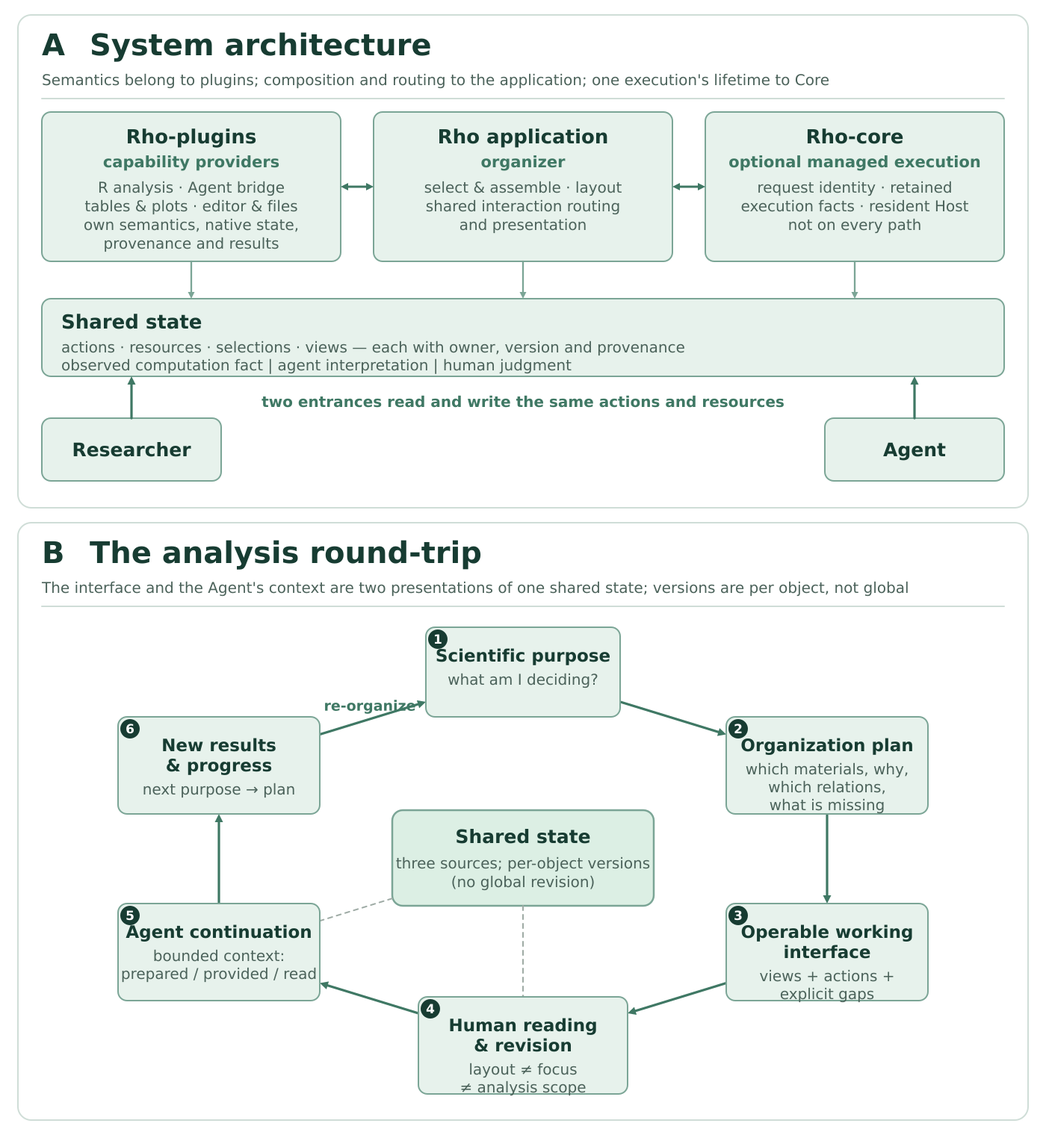
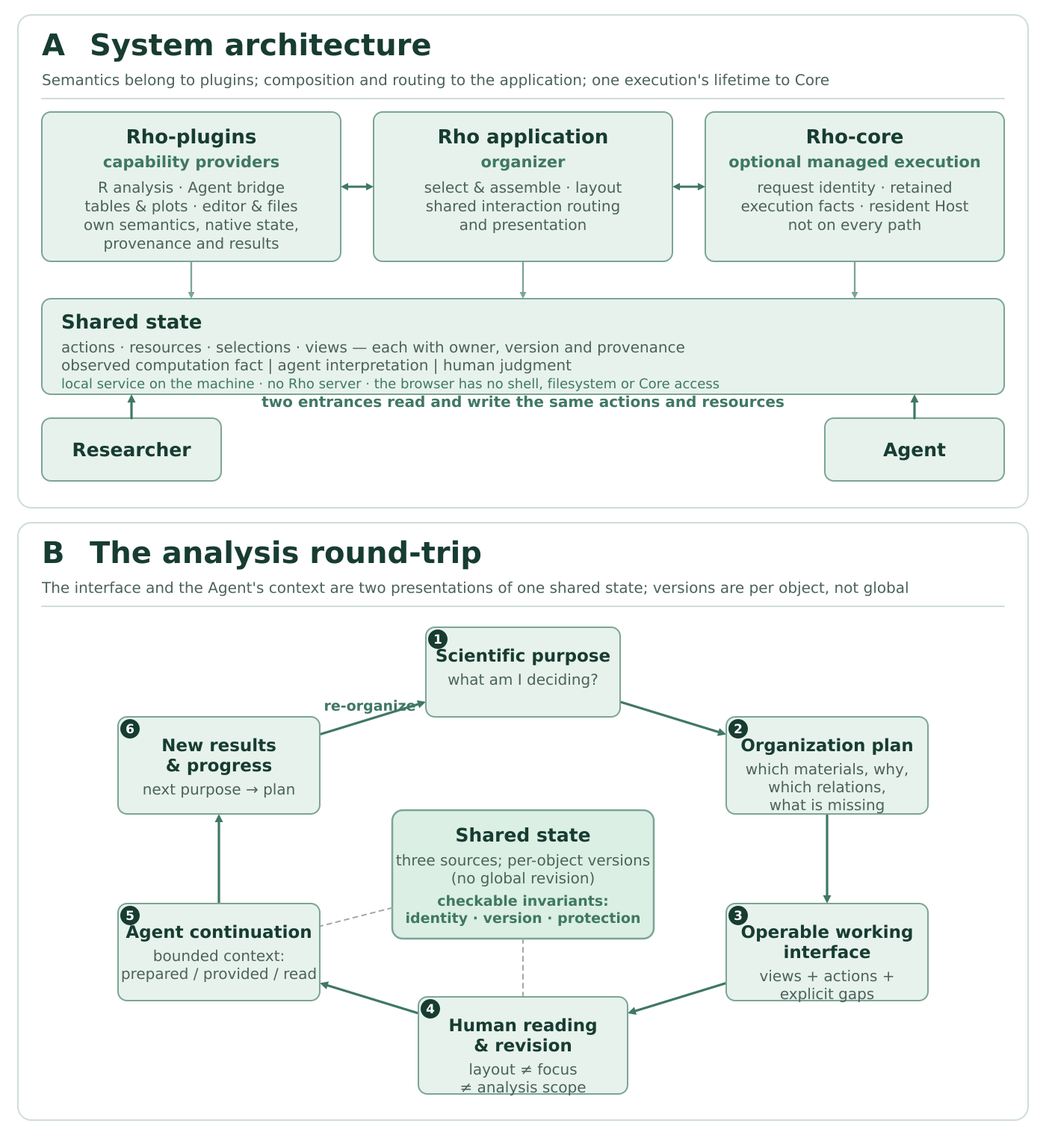
Integrate the deployed documentation into the argument
- Add a claim -> protocol invariant -> evidence table (Section 3.7) so each
  load-bearing claim is paired with the mechanism that makes it checkable
- Add local-first deployment facts and a new execution-identity subsection
  (unknown outcomes are queried, never replayed)
- Rework the collaboration section around the external-session observation
  boundary, and record the roadmap's own presentation defect for the base-R run
- Fold the five-operation and capability tables into prose; regenerate the
  architecture figure with the invariants and the local-service note
- Record the corpus selection and the run's operational facts in case selection

Changed region(s): [[0.3686, 0.7093, 0.645, 0.8327], [0.2764, 0.3084, 0.6757, 0.3392], [0.0614, 0.3084, 0.2457, 0.3701]]

diff --git a/drafts/arxiv/main.tex b/drafts/arxiv/main.tex
@@ -39,7 +39,7 @@ Two default arrangements do not answer this directly. One gives the interface to
 
 Rho takes a third position: it makes the current scientific purpose the organizing principle, forms a working interface from it, and treats the organization itself as a fact shared by the person and the agent. The system obtains or selects the materials a judgment needs, states what each one contributes, composes the applicable views and operations, and points out what is still missing; the researcher reads, compares and revises within it, the agent continues from the same representation with its objects, scope and actual compute conditions, and new results return to the corresponding judgment. We use \emph{discovering questions} broadly: a question may be supplied by the researcher, emerge from a discrepancy, or follow from an incomplete result. \emph{Testing explanations} means making an explanation answerable to particular results and analysis choices; it does not mean that the interface can validate a biological mechanism by itself.
 
-The proposed contribution is therefore a method, not a particular screen or a model capability: given the current scientific purpose and the capabilities actually connected, select or obtain materials from an ongoing analysis, organize their relations, and compose operable views, such that this organization is simultaneously the researcher's interface for understanding the analysis and the agent's shared context for continuing it, and is revised as human judgment and new results arrive. The paper makes three contributions.
+The proposed contribution is therefore a method, not a particular screen or a model capability: given the current scientific purpose and the capabilities actually connected, select or obtain materials from an ongoing analysis, organize their relations, and compose operable views, such that this organization is simultaneously the researcher's interface for understanding the analysis and the agent's shared context for continuing it, and is revised as human judgment and new results arrive. The claim is not that organization is a good idea but that its distinctions can be made checkable: the paper pairs each load-bearing claim with the protocol invariant that enforces it (Section~\ref{checkable}). The paper makes three contributions.
 
 \begin{enumerate}
   \item \textbf{A method object.} We express ``purpose $\rightarrow$ organization plan $\rightarrow$ operable interface $\rightarrow$ sourced shared state $\rightarrow$ agent continuation'' as a set of checkable objects and operations, in which every step states its basis, gaps and version. Five operations form one round-trip; three kinds of change (layout, focus and analysis scope) must remain distinguishable; the shared state separates three sources (observed computation fact, agent interpretation, human judgment) and versions each object separately. A capability provider supplies information, compute and views; the organizer decides how they are composed.
@@ -130,66 +130,70 @@ The content of the shared state is distinguished by source: the computation fact
 
 \subsection{Five operations form a round-trip}\label{five-ops}
 
-\begin{table}[!htbp]
-\centering
-\small
-\caption{The five operations of one round-trip. They are not a mandatory pipeline but recognizable links: a round-trip may contain only reading and confirmation.}
-\label{tab:ops}
-\begin{tabular}{@{}>{\raggedright\arraybackslash}p{0.20\linewidth} >{\raggedright\arraybackslash}p{0.36\linewidth} >{\raggedright\arraybackslash}p{0.38\linewidth}@{}}
-\hline
-Operation & Input & Change produced \\
-\hline
-Organize by purpose & Current purpose, available materials and capabilities, focus scope & Selection and acquisition, role and relation statements, operable layout and gaps \\
-Read and explore & Organized materials, comparison relations, explicit versions & Expand, locate, compare; keep layout, focus and analysis-scope changes distinct \\
-Revise purpose or analysis & The selected objects, the change to purpose or judgment, and its scope & Reselect materials or update interpretation; retain the original run facts and reading entry \\
-Continue from shared state & Current purpose, material relations, effective decisions, compute conditions, open items, references & A checkable agent-context supply, recording the actual access state \\
-Reorganize as work advances & New results, run changes and their relation to the current purpose & Add content, adjust emphasis, and state the change relative to what was read \\
-\hline
-\end{tabular}
-\end{table}
+One round-trip has five recognizable operations, not a mandatory pipeline. \emph{Organize by purpose} selects or obtains the materials for the current judgment, states their roles and the gaps, and forms an operable layout. \emph{Read and explore} expands, locates and compares them while keeping layout, focus and analysis-scope changes distinct. \emph{Revise the purpose or the analysis} reselects materials or updates an interpretation and retains the original run facts and reading entry. \emph{Continue from the shared state} supplies a checkable agent context and records the actual access state. \emph{Reorganize as work advances} adds new results and states the change relative to what was read.
 
 Revision happens only when the person explicitly changes an analysis choice or an interpretation state; asking ``why'' produces only an attributed explanation. Reading, asking, adopting and revising are not merged into automatic consent.
 
 \subsection{Capability providers and the organizer}\label{capability}
 
-Plugins let the system adapt to different kinds of information, compute and environment without fixing one analysis stack at the base of the application. We distinguish the \emph{capability provider} from the \emph{organizer} of the working interface (Table~\ref{tab:capability}).
+Plugins let the system adapt to different kinds of information, compute and environment without fixing one analysis stack at the base of the application. We distinguish the \emph{capability provider} from the \emph{organizer} of the working interface. A provider supplies a reading or compute entry, the actual format, scope, version and source it works with, and the views and operations that act on a declared object and scope; the organizer decides how they are composed. Three constraints follow. First, access conditions enter the shared state: which input is currently referenced, which capabilities are available, where computation runs, and which facts have not been obtained; otherwise ``the interface looks complete'' hides the actual gap. Second, a capability need not have a UI, and the catalog keeps five states apart---package presence, project enablement, dependency readiness, method authorization and UI renderability---so a missing view does not disable reading a table or editing a document. Third, a specific dataset, disease comparison, statistical design or analysis order is a project choice and must not be frozen into a general application merely because plugins are customizable. This division matches Rho's source ownership (\href{https://github.com/YuLab-SMU/Rho/blob/main/docs/ARCHITECTURE.md}{architecture}, \href{https://github.com/YuLab-SMU/Rho/blob/main/docs/PLUGIN-AUTHORING.md}{UI extension}) and the \href{https://github.com/YuLab-SMU/Rho-plugins/blob/main/docs/PLUGIN-MODEL.md}{plugin capability model}; the five-state separation and the project-scoped selection are recorded in the \href{https://github.com/YuLab-SMU/Rho/blob/main/docs/COLLABORATION.md}{headless collaboration} record.
 
-\begin{table}[!htbp]
+The method constrains only what must be checkable, not the layout, size or visual style. Its substantive constraints are: the selection and association of materials retain their attribution, and a model may propose but cannot turn a relation it generated into an established fact; the rationale and unresolved relations are traceable, and a person's correction can target ``a missing kind of material'' rather than only a wrong conclusion; source identity, available operations, view bindings and existing state are carried by the corresponding capability rather than invented by the interface; and the state the interface rests on is the same set of versioned statements and references the agent receives, so compression cannot decide by a single free summary whether a human revision is kept.
+
+\subsection{What makes the organization checkable}\label{checkable}
+
+The method would be prose if nothing enforced its distinctions. Rho makes each load-bearing claim checkable through a specific protocol invariant, owned by a named mechanism and recorded in the implementation documents. Table~\ref{tab:argument} states the claim, the invariant and the evidence this paper offers for it.
+
+\begin{table}[H]
 \centering
-\small
-\caption{The role of a capability in the working interface. Each row is a role, not a requirement that a single plugin provide all of it.}
-\label{tab:capability}
-\begin{tabular}{@{}>{\raggedright\arraybackslash}p{0.19\linewidth} >{\raggedright\arraybackslash}p{0.40\linewidth} >{\raggedright\arraybackslash}p{0.35\linewidth}@{}}
+\footnotesize
+\caption{The argument and how it is checked. Each load-bearing claim is paired with the protocol invariant that makes it checkable and with the evidence offered here; ``design'' marks a claim the present analyses do not exercise.}
+\label{tab:argument}
+\begin{tabular}{@{}>{\raggedright\arraybackslash}p{0.20\linewidth} >{\raggedright\arraybackslash}p{0.47\linewidth} >{\raggedright\arraybackslash}p{0.27\linewidth}@{}}
 \hline
-What is connected & What the capability must provide & How it enters the working interface \\
+Load-bearing claim & Invariant that makes it checkable & Evidence in this paper \\
 \hline
-Information and domain material & A reading entry, actual format and scope, version and source, and evidence-based cell, donor and gene mappings & Decides which materials can be obtained and related. Object adapters help read single-cell objects but cannot infer scientific meaning from a file suffix. \\
-Compute and environment & A compute entry, inputs and environment conditions, real task identity, state and results; customizable for local or remote & Decides what can be continued, what is blocked, and how reading is supported during waiting and partial results; does not hide environment differences. \\
-Views and interaction entries & Presentation, selection and operation suited to the connected resource, and the objects and scope they actually act on & Lets materials be read and operated on for the current purpose; the person's and the agent's entries point to the same capability and resource. \\
+Purpose decides materials and relations & Composition is a stable-ID acyclic tree; a view names exact component versions, props and resource bindings; owners validate them and an unknown rendering entry stays unavailable & P1 (figure, donor mapping, model); Table~\ref{tab:cases} \\
+\hline
+Three kinds of change stay distinct & Moving changes layout only; an analysis-scope change is an owner action, not a view move; undo reverses only the latest layout transaction and never touches buffers, resource bytes or native requests; view protection survives undo; selections are caller-, view- or shared-scoped, and an agent's private selection never replaces the person's & P1 reading along relations; P3 retained alternatives \\
+\hline
+Shared state is distinguished by source & Managed execution facts, append-only annotations anchored to an exact version, and agent or document text belong to different owners; execution completion, artifact integrity, domain checks and model explanation are separate facts & P1 Graph's relation legend; P4 answer as agent interpretation \\
+\hline
+Versions are per object; a revision lands on the right object & No global scientific revision; a conflicting write returns the current version; a missing receipt is not permission to replay; an annotation names an exact version and later edits give ``version-differs'', not an automatic rebase & P1 revision on A@1; P4 retained discrepancy \\
+\hline
+Prepared, provided and read are different facts & A prepared context freezes the messages and their original object snapshots; reading records the fetching identity and separately reports an explicit linked reply; none proves understanding or completion & design \\
+\hline
+Access conditions enter the shared state & Five capability states are kept apart (presence, enablement, dependency readiness, method authorization, UI renderability); a missing view does not disable reading a table & P3 panel background; P4 unmapped transcript; P5 input history \\
+\hline
+Unknown stays unknown; nothing is replayed & Identity is a caller plus a request id; the same content under one identity is accepted once; a lost reply, timeout, refresh or crash never mints a new identity; a ``sent, no reply'' result is queried under the same identity & P1 run facts; the external session in Section~\ref{beyond} \\
+\hline
+Local-first and agent-agnostic & The page is served from the machine at a loopback address; there is no Rho server; the browser has no shell, filesystem or Core access; the agent keeps its own permissions and managed execution is optional & the five analyses ran on native tools without managed execution \\
 \hline
 \end{tabular}
 \end{table}
 
-Three constraints follow. First, access conditions enter the shared state: which input is currently referenced, which capabilities are available, where computation runs, which facts have not been obtained; otherwise ``the interface looks complete'' hides the actual gap. Second, a plugin need not have a UI: the absence of a view does not mean the capability is absent, and a UI entry does not mean its required environment is available. Third, a specific dataset, disease comparison, statistical design or analysis order is an analysis choice in a project and must not be frozen into a general application merely because plugins are customizable. This division matches Rho's current source ownership (see the \href{https://github.com/YuLab-SMU/Rho/blob/main/docs/ARCHITECTURE.md}{Rho architecture} and \href{https://github.com/YuLab-SMU/Rho/blob/main/docs/PLUGIN-AUTHORING.md}{UI extension} records); the full plugin boundary is in the \href{https://github.com/YuLab-SMU/Rho-plugins/blob/main/docs/PLUGIN-MODEL.md}{Rho-plugins capability model}.
-
-The method constrains only what must be checkable, not the layout, size or visual style. Its substantive constraints are: the selection and association of materials retain their attribution, and a model may propose but cannot turn a relation it generated into an established fact; the rationale and unresolved relations are traceable, and a person's correction can target ``a missing kind of material'' rather than only a wrong conclusion; source identity, available operations, view bindings and existing state are carried by the corresponding capability rather than invented by the interface; and the state the interface rests on is the same set of versioned statements and references the agent receives, so compression cannot decide by a single free summary whether a human revision is kept.
+Protocol records: the \href{https://github.com/YuLab-SMU/Rho/blob/main/docs/COLLABORATION.md}{headless collaboration} and \href{https://github.com/YuLab-SMU/Rho/blob/main/docs/EXECUTION.md}{execution bridge} documents define these invariants and operations, and \href{https://github.com/YuLab-SMU/Rho/blob/main/docs/ARCHITECTURE.md}{Rho architecture} defines ownership. The table is a mapping from claims to mechanisms and evidence; it is not evidence that any one system realises the method end to end.
 
 \section{Rho: architecture and interface}\label{system}
 
 \subsection{Three layers and four shared concepts}\label{layers}
 
-Rho separates three layers (Figure~\ref{fig:architecture}, panel A). The \textbf{application container} selects and assembles components, and owns layout and shared interaction routing and presentation. \textbf{Functional components (plugins)} are the capability providers---an R analysis, an agent bridge, a table, a plot, an editor or a file tool---and own semantics, native state, artifacts, provenance and results. \textbf{Rho-core} supplies optional managed execution: original request identity and deduplication, retained execution facts, a resident Host and a public CLI. Core is not a prerequisite for an agent computation and is not on every path; an agent normally uses its native tools with existing permissions, and managed execution is selected only for a concrete need such as execution continuity or a retained record. During the five analyses reported in Section~\ref{episodes}, managed execution was unavailable: they ran through the shared Notebook kernel on the agent's native tools, so they exercise the workspace views and the shared session, not the optional managed-execution path.
+Rho separates three layers (Figure~\ref{fig:architecture}, panel A). The \textbf{application container} selects and assembles components, and owns layout and shared interaction routing and presentation. \textbf{Functional components (plugins)} are the capability providers---an R analysis, an agent bridge, a table, a plot, an editor or a file tool---and own semantics, native state, artifacts, provenance and results. \textbf{Rho-core} supplies optional managed execution: original request identity and deduplication, retained execution facts, a resident Host and a public CLI. Core is not a prerequisite for an agent computation and is not on every path; an agent normally uses its native tools with existing permissions, and managed execution is selected only for a concrete need such as execution continuity or a retained record. During the five analyses reported in Section~\ref{episodes}, managed execution was unavailable: they ran through the shared Notebook kernel on the agent's native tools, so they exercise the workspace views and the shared session, not the optional managed-execution path. Rho is a local service with a browser interface: the page is served from the machine at a loopback address, there is no Rho server, and the browser has no shell, filesystem or Core access of its own---it calls named scoped operations on the local service. A project stays an ordinary folder, an agent client keeps its own permissions, and the scientific materials stay on the machine.
 
 Four concepts connect components to the container: an \textbf{action} (identity, typed inputs, preconditions, effects, results and cancellation semantics); a \textbf{resource} (an owner-provided reference to a file, table, plot, model or task, with provenance and the content version it needs); a \textbf{selection} (stable entities or ranges in a particular resource version); and a \textbf{view} (presentation of resources, registered actions and observation subscriptions). Agent tools, UI controls and CLI adapters reach the same component action, so a person and an agent reach the same capabilities and resources through different entrances. In the design, the shared state the method relies on is this body of actions, resources, selections and views, each with an owner, a version, and a provenance whose source is an observed computation fact, an agent interpretation, or a human judgment (Figure~\ref{fig:architecture}, panel B). Two facts the figure keeps apart: component semantics belong to the plugin, composition and routing to the application, and a single execution's lifetime to Core; and a displayed relationship is not by itself proof that a scientific claim is correct. The five analyses below instantiate views and resources over a shared Notebook session; they do not exercise the full action and selection contract described here.
 
 \begin{figure}[!htbp]
 \centering
 \includegraphics[width=0.96\textwidth]{figures/figure-architecture.pdf}
-\caption{\textbf{Rho's architecture and the analysis round-trip.} (A) Three layers---the application container that composes and routes, functional components that own capability and semantics, and optional managed execution---with the researcher and the agent reaching one body of actions and resources, and the shared state carrying each object's owner, version and provenance. (B) The method as a round-trip: a scientific purpose forms an organization plan, which becomes an operable interface; human reading and revision and agent continuation both act on one shared state, whose contents are distinguished by source and versioned per object, and new results drive re-organization. Panel A shows the design; the analyses in Section~\ref{episodes} used the workspace views over a shared Notebook session and did not exercise the optional managed-execution path.}
+\caption{\textbf{Rho's architecture and the analysis round-trip.} (A) Three layers---the application container that composes and routes, functional components that own capability and semantics, and optional managed execution---with the researcher and the agent reaching one body of actions and resources, and the shared state carrying each object's owner, version and provenance. (B) The method as a round-trip: a scientific purpose forms an organization plan, which becomes an operable interface; human reading and revision and agent continuation both act on one shared state, whose contents are distinguished by source and versioned per object, and new results drive re-organization, summarized at its centre by the invariants that make each link checkable (identity, per-object version, protection, selection scope). Panel A also notes the deployment form: the service is local, there is no Rho server, and the browser has no shell, filesystem or Core access. The analyses in Section~\ref{episodes} used the workspace views over a shared Notebook session and did not exercise the optional managed-execution path.}
 \label{fig:architecture}
 \end{figure}
 
 These boundaries have a practical consequence for the method. Because the application composes views and routes actions but does not re-implement a component's behavior, the same analysis objects can appear in different views without a second source of truth. Because Core is optional, an analysis can run with the agent's native tools while still being observed and represented in the shared state. And because a missing component is reported unavailable rather than silently installed, the interface can state a gap instead of hiding it.
+
+\subsection{Execution identity and unknown outcomes}\label{identity}
+
+For work that asks for execution continuity, Rho reaches Rho-core only through its public CLI, and the application side of that boundary mints a request identity once---a caller name plus a request id---and keeps it with the action. Submitting the same content again returns the original run and dispatches nothing; different content under the same identity is a conflict; a lost reply, a wait timeout, a browser refresh, a view failure or a service crash never mints a new identity. A ``sent but no reply'' result is treated as possibly executed: the system queries the same identity and shows the actual facts, including an unknown outcome, instead of starting fresh work. A resident host is held independently of tabs, views and agent sessions, so closing a view releases observation and rendering only. This is the concrete form of the paper's claim that prepared, provided and read are different facts and that an unobserved outcome stays unknown; the exit-code mapping that makes ``do not replay'' mechanical is recorded in the \href{https://github.com/YuLab-SMU/Rho/blob/main/docs/EXECUTION.md}{execution bridge} document.
 
 \subsection{The workspace views}\label{views}
 
@@ -199,7 +203,7 @@ The guiding design question is how a researcher can move from a question to the 
 
 \subsection{Case selection and evidence}\label{cases}
 
-We describe five selected analyses using publicly available GEO datasets associated with published biomedical studies. They were run on one local machine with one agent and one model in Rho 0.5.2 (source commit 64d73550f4bb1786e6cec42071fbe8a67a8ba230), with managed execution unavailable; the public data were downloaded before the runs and R code was executed in the shared Notebook session. The tasks cover particular expression analyses rather than complete reproductions of the studies. The local project scripts, result tables, notes, session exports and screenshots underpin the descriptions, but their implementation record is not yet publicly available. The original studies and GEO accessions identify the input sources; they are not independent evidence that these local analyses are correct.
+We describe five selected analyses using publicly available GEO datasets associated with published biomedical studies. They were run on one local machine with one agent and one model in Rho 0.5.2 (source commit 64d73550f4bb1786e6cec42071fbe8a67a8ba230), with managed execution unavailable; the public data were downloaded before the runs and R code was executed in the shared Notebook session. The five are drawn from a corpus of 97 fully open papers. The implementation record reports that two of the five needed one turn and three needed two to four, because the agent client capped at 64 turns or waited on an event that nothing wakes, with 8--24 approval choices per run and resource paths guessed. These are operational facts of this configuration, cited to the \href{https://github.com/YuLab-SMU/Rho/blob/main/docs/STATUS.md}{status} and literature-reproduction records, not properties of the method. The tasks cover particular expression analyses rather than complete reproductions of the studies. The local project scripts, result tables, notes, session exports and screenshots underpin the descriptions, but their implementation record is not yet publicly available. The original studies and GEO accessions identify the input sources; they are not independent evidence that these local analyses are correct.
 
 We report the first case in depth because it exercises all three workspace views; the other four are reported more briefly as different questions that call for different evidence. Table~\ref{tab:cases} summarizes the five. All are observational demonstrations of what the interface displayed and what the saved analyses reported; there was no independent participant or comparative user study. We distinguish screenshots captured during the original P1 session from later $3840 \times 1972$ captures of reopened P2--P5 projects, where the saved views and artifacts were available but the original R sessions had ended. Separately redrawn plots are identified in their captions.
 
@@ -221,7 +225,7 @@ P5 & GSE252990 & Blood transcriptome & What can a patient-paired comparison supp
 \end{tabular}
 \end{table}
 
-Table~\ref{tab:mapping} states, for each case, which part of the method it illustrates and what it leaves untested; it is the bridge between Section~\ref{method} and the analyses that follow.
+Where Table~\ref{tab:argument} reads claim-first, Table~\ref{tab:mapping} reads evidence-first: for each case, which part of the method it illustrates and what it leaves untested.
 
 \begin{table}[!htbp]
 \centering
@@ -334,9 +338,9 @@ For the on-treatment question, the analysis paired baseline and C3D1 samples fro
 
 \section{Collaboration beyond the Rho window}\label{beyond}
 
-An agent need not originate in Rho for a researcher to bring its work into the project. In an installed external ACP episode \cite{acp}, an existing Codex session used an explicitly configured relay. The original client retained its input, permission choices and runtime, while Rho displayed the external session's reported plan and references to project files. The observed plan describes the agent's activity; a file reference or current file hash does not alone establish authorship or scientific correctness. This is a specific relay-based connection, not passive attachment to an arbitrary running client (Supplementary Figure~S8).
+An agent need not originate in Rho for a researcher to bring its work into the project. In an installed external ACP episode \cite{acp}, an existing Codex session used an explicitly configured relay: the original client kept its input, permission choices and runtime, while Rho displayed the session's reported plan and references to project files. Rho can also observe an external Claude Code or dsh session read-only through a project-scoped collector: it shows tool requests and their returns, refusals, native exit codes and output files, keeps them while the view is open, and marks a request with no observed return as awaiting a result. Reconnection reads the same stream after its existing cursor; it does not start a host, restart a collector, submit work or resume a model, and opening the view sends no message and starts no agent or host. Outputs are observed as files with current paths, byte counts and SHA-256 prefixes; they are not automatically attributed to a tool call or declared complete, and a captured snapshot is labelled ``producer unconfirmed'' until an owner says otherwise. Opening a snapshot inserts an exact resource and version into the workspace through the same conditional-composition path as any other view: a stale layout is refused and protected views are not replaced. A filename or a current hash does not by itself establish authorship or scientific correctness. This is a specific relay-based connection, not passive attachment to an arbitrary running client (Supplementary Figure~S8); the observation boundary is recorded in the \href{https://github.com/YuLab-SMU/Rho/blob/main/docs/AGENT-ACTIVITY.md}{agent-activity} document.
 
-A separate base-R collaboration episode \cite{baser} demonstrates the scientific handoff itself. An automated operator selected May in an \texttt{airquality} table and asked an external Claude Code agent why there were 24 observations and to exclude only missing ozone values. The agent received the selected row and version through a project-scoped MCP handoff, changed the script and linked the recalculated outputs. May changed from 24 observations with mean ozone 24.125 to 26 with mean 23.615; an independent base-R expression checked the five monthly aggregates, and the original and new tables remained separately available for comparison. This is a controlled demonstration with an automated operator, not evidence of human usability or a validation of the missing-data assumption.
+A separate base-R collaboration episode \cite{baser} demonstrates the scientific handoff itself. An automated operator selected May in an \texttt{airquality} table and asked an external Claude Code agent why there were 24 observations and to exclude only missing ozone values. The agent received the selected row and version through a project-scoped MCP handoff, changed the script and linked the recalculated outputs. May changed from 24 observations with mean ozone 24.125 to 26 with mean 23.615; an independent base-R expression checked the five monthly aggregates, and the original and new tables remained separately available for comparison. This is a controlled demonstration with an automated operator, not evidence of human usability or a validation of the missing-data assumption. The project's own review of that run is more specific: the screens did not present the answer, the change between the two results had to be found by comparing two tables, and implementation facts stood where the question and its answer should be. That is an unresolved presentation defect of this configuration rather than a property of the method, and it is recorded in the \href{https://github.com/YuLab-SMU/Rho/blob/main/docs/ROADMAP.md}{product-direction} record.
 
 Rho's bundled PA14 quorum-sensing project \cite{pa14} provides another starting point. It brings together swarming measurements, co-culture ratios, RNA-seq counts and annotations to ask what the las and rhl systems contribute to collective behaviour. It is an illustrative project, not a sixth independent analysis in the five-project episode.
 
@@ -370,7 +374,7 @@ The method carries concrete costs: the system may misread a purpose, select the 
 
 \subsection{Limitations and future evaluation}\label{limitations}
 
-The examples use one configuration and selected, pre-existing datasets. They do not compare Rho with an alternative interface, measure users' understanding or decision quality, or establish full reproduction of the source studies. The P2 cell classes and comparisons require sample-aware validation; P3's combined enrichment has no direction; P4's unexplained annotation loss and count discrepancy need further investigation; and P5 depends on input-processing choices. No single case provides evidence that Rho validates scientific conclusions.
+The examples use one configuration and selected, pre-existing datasets. They do not compare Rho with an alternative interface, measure users' understanding or decision quality, or establish full reproduction of the source studies. The P2 cell classes and comparisons require sample-aware validation; P3's combined enrichment has no direction; P4's unexplained annotation loss and count discrepancy need further investigation; and P5 depends on input-processing choices. No single case provides evidence that Rho validates scientific conclusions, and independent researcher use has not been observed: the project's \href{https://github.com/YuLab-SMU/Rho/blob/main/docs/STATUS.md}{status} record makes no usability claim for the same reason.
 
 The next evidence should include an accessible, versioned record of each analysis; independent scientific review of the scripts, inputs and interpretations; and observations of researchers pursuing their own questions. A comparative study could test whether the interface helps people locate the evidence behind a claim, identify a discrepancy or choose a suitable next step. These remain research questions, not established outcomes of the present demonstrations.
 

diff --git a/scripts/make_architecture_figure.py b/scripts/make_architecture_figure.py
@@ -148,7 +148,7 @@ def panel_a():
     arrow(plug[0] + plug[2], mid_y, app[0], mid_y, double=True, w=3, head=10)
     arrow(app[0] + app[2], mid_y, core[0], mid_y, double=True, w=3, head=10)
 
-    ss = (56, y0 + 380, W - 2 * M - 64, 104)
+    ss = (56, y0 + 380, W - 2 * M - 64, 128)
     rect(*ss)
     text(ss[0] + 26, ss[1] + 40, "Shared state", 26, DARK, "700")
     text(ss[0] + 26, ss[1] + 72,
@@ -157,6 +157,9 @@ def panel_a():
     text(ss[0] + 26, ss[1] + 96,
          "observed computation fact    |    agent interpretation    |    human judgment",
          20, SECOND)
+    text(ss[0] + 26, ss[1] + 120,
+         "local service on the machine  \u00b7  no Rho server  \u00b7  the browser has no "
+         "shell, filesystem or Core access", 18, ACCENT)
 
     for box in (plug, app, core):
         cx = box[0] + box[2] / 2
@@ -199,12 +202,14 @@ def panel_b():
     n4 = (560, 1335, 280, 130)
     n5 = (158, 1210, 270, 130)
     n6 = (158, 960, 270, 130)
-    hub = (525, 1085, 350, 128)
+    hub = (525, 1085, 350, 172)
 
     rect(*hub, rx=14, fill=FILL2, stroke=STROKE, sw=2.5)
-    text(cx, hub[1] + 44, "Shared state", 25, DARK, "700", "middle")
-    clines(cx, hub[1] + 78, ["three sources; per-object versions",
-                             "(no global revision)"], 20, SECOND, "400", 25)
+    text(cx, hub[1] + 42, "Shared state", 25, DARK, "700", "middle")
+    clines(cx, hub[1] + 74, ["three sources; per-object versions",
+                             "(no global revision)"], 20, SECOND, "400", 24)
+    clines(cx, hub[1] + 128, ["checkable invariants:", "identity \u00b7 version \u00b7 protection"],
+           19, ACCENT, "600", 23)
 
     def C(b):
         return (b[0] + b[2] / 2, b[1] + b[3] / 2)
